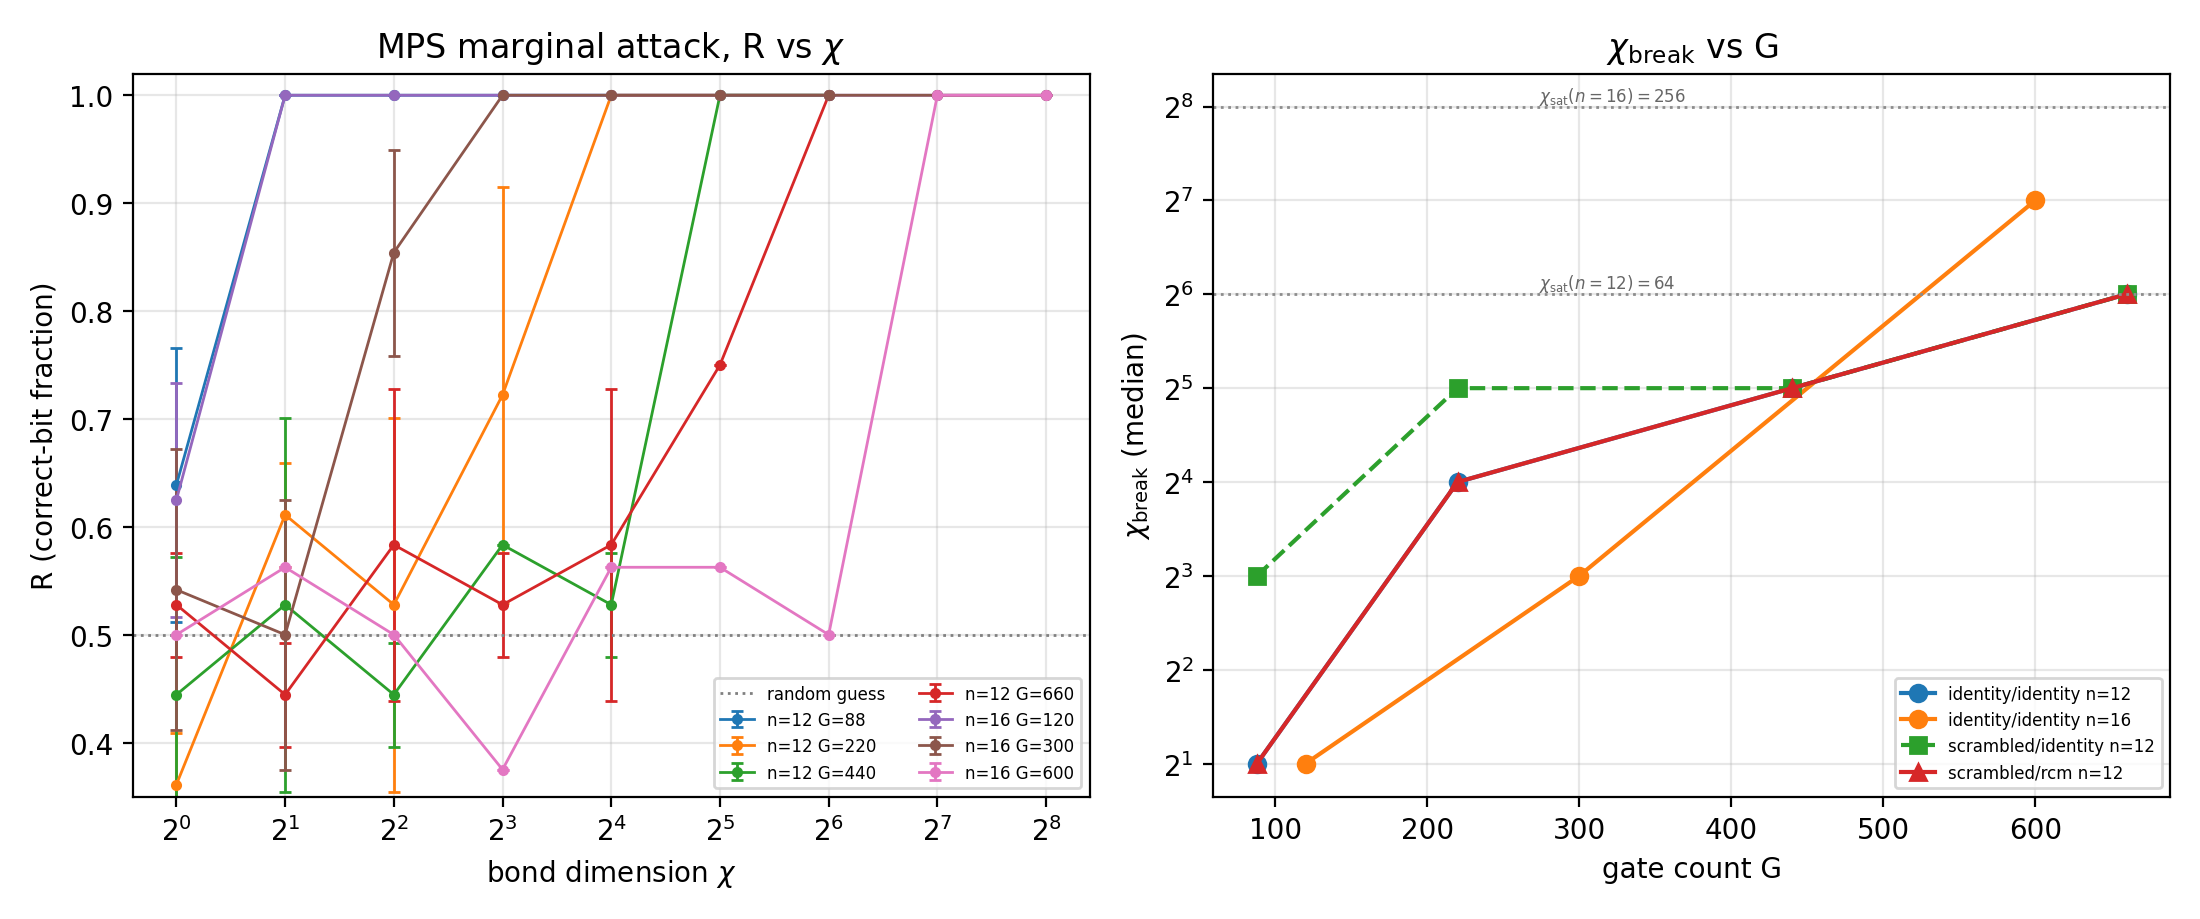
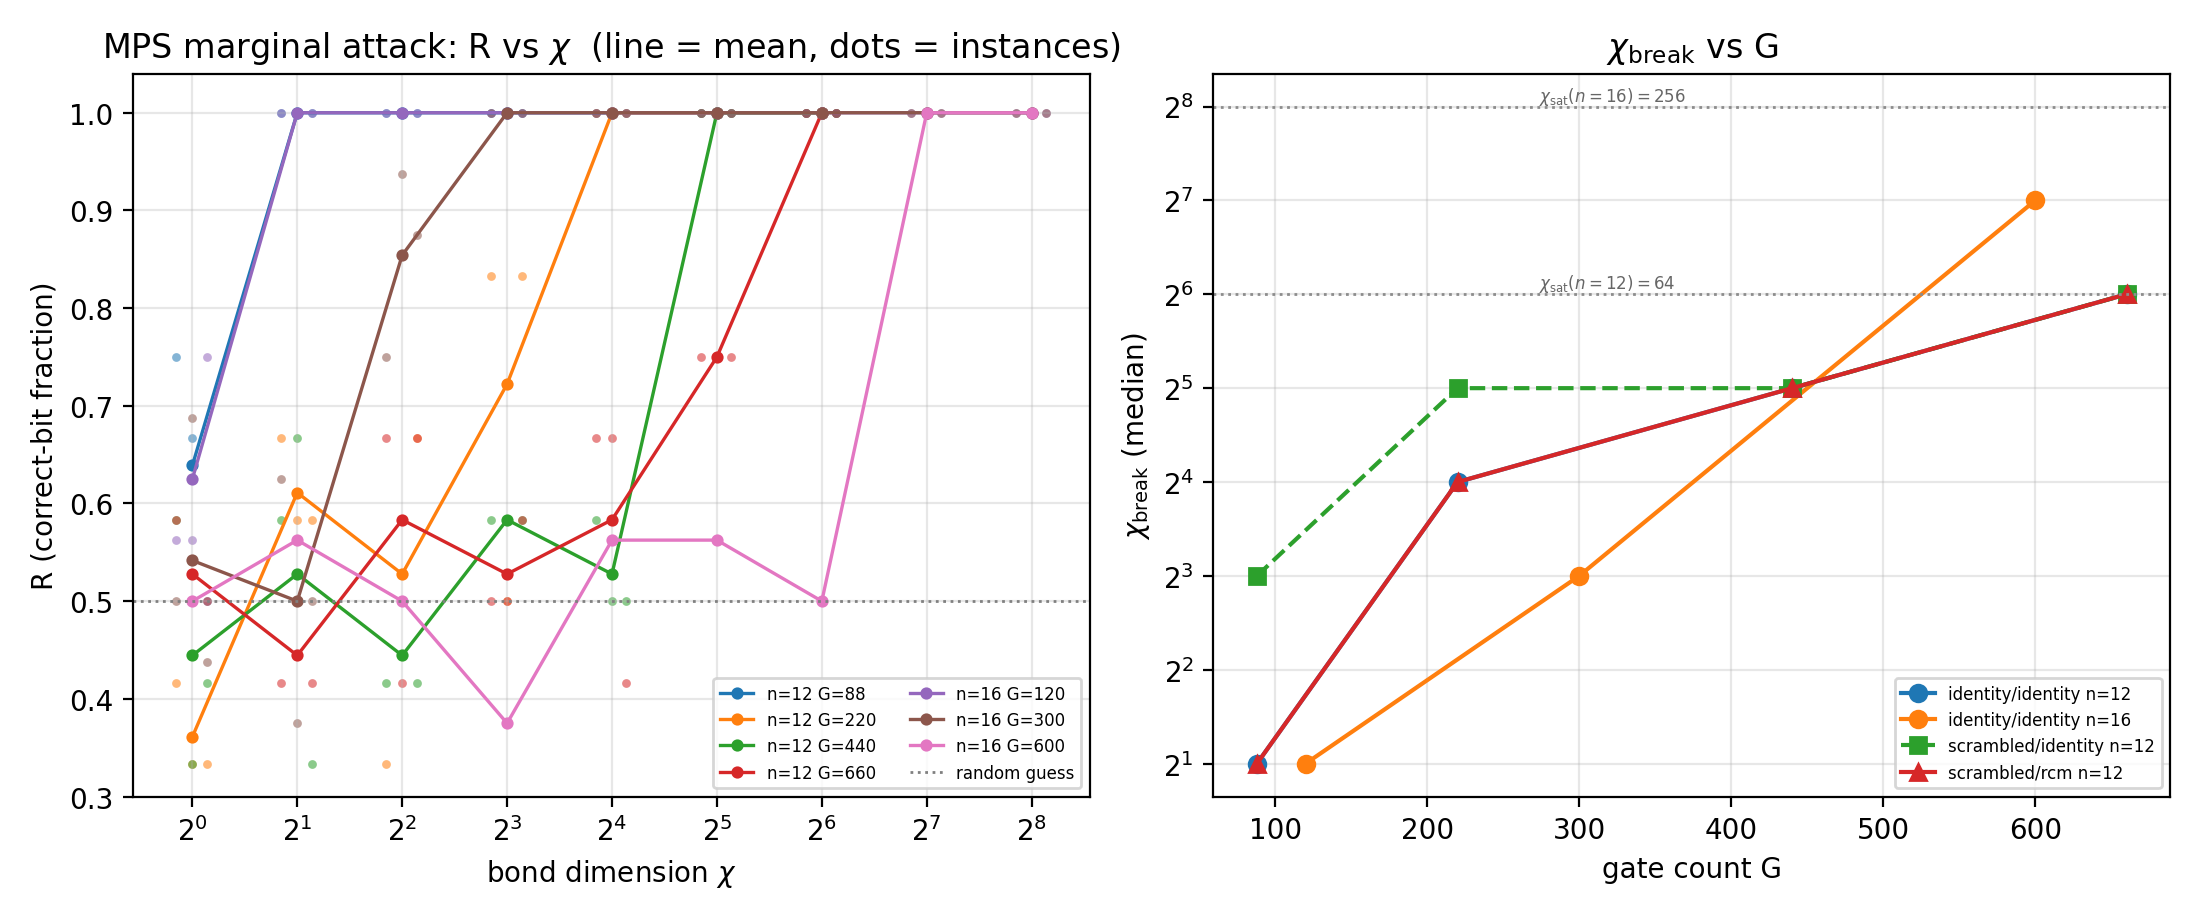
plot: show per-instance dots instead of error bars in the R(chi) panel
R only takes k/n values, so 3-instance std produced long vertical bars that
overlapped neighbouring curves. Mean line stays; instances are drawn as faint
jittered dots.

diff --git a/exp_mps_break.py b/exp_mps_break.py
@@ -611,17 +611,31 @@ def cmd_report(args):
         fig, axes = plt.subplots(1, 2, figsize=(11, 4.6), dpi=200)
         ax = axes[0]
         pts = [c for c in curves if c["layout"] == "identity"]
+        # 单实例 R 的查表（画散点用）：R 只能取 k/n，误差棒会拉得又长又乱
+        raw = collections.defaultdict(list)
+        for r in rows:
+            if r["chi"] > 0 and r["layout"] == "identity":
+                raw[(r["n"], r["depth"], r["chi"])].append(r["R"])
         for n in sorted({c["n"] for c in pts}):
             for d in sorted({c["depth"] for c in pts if c["n"] == n}):
-                ss = [c for c in pts if c["n"] == n and c["depth"] == d]
-                ax.errorbar([c["chi"] for c in ss], [c["R_mean"] for c in ss],
-                            yerr=[c["R_std"] for c in ss], marker="o", ms=3, lw=1,
-                            capsize=2, label=f"n={n} G={ss[0]['gate_count']}")
+                ss = sorted([c for c in pts if c["n"] == n and c["depth"] == d],
+                            key=lambda c: c["chi"])
+                chis = [c["chi"] for c in ss]
+                line, = ax.plot(chis, [c["R_mean"] for c in ss], marker="o", ms=3.4,
+                                lw=1.2, label=f"n={n} G={ss[0]['gate_count']}")
+                # 每个实例一个细点，横向微抖开；均值仍是折线
+                for c in ss:
+                    vals = raw[(n, d, c["chi"])]
+                    if len(vals) <= 1:
+                        continue
+                    offs = np.linspace(0.90, 1.10, len(vals))
+                    ax.scatter([c["chi"] * o for o in offs], vals, s=10,
+                               color=line.get_color(), alpha=0.55, linewidths=0, zorder=1)
         ax.axhline(0.5, ls=":", color="gray", lw=1, label="random guess")
-        ax.set_xscale("log", base=2); ax.set_ylim(0.35, 1.02)
+        ax.set_xscale("log", base=2); ax.set_ylim(0.30, 1.04)
         ax.set_xlabel(r"bond dimension $\chi$")
         ax.set_ylabel("R (correct-bit fraction)")
-        ax.set_title("MPS marginal attack, R vs $\\chi$")
+        ax.set_title("MPS marginal attack: R vs $\\chi$  (line = mean, dots = instances)")
         ax.grid(True, which="both", alpha=0.3)
         ax.legend(fontsize=6, ncol=2)
 
